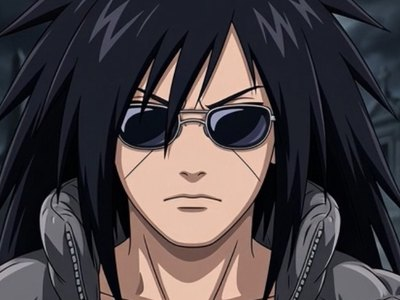
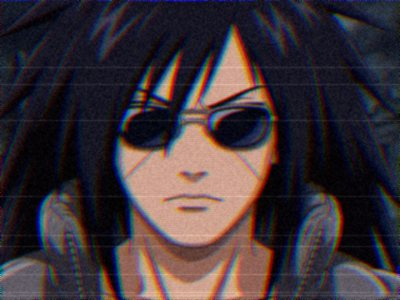
Give track pictures in Video Clips a 2006 VHS tape look
The track 01 picture gets tape softness, colour fringing, noise and
scanlines, and every track picture plays with a rolling tracking band,
a small tape jitter and camcorder PLAY / date text.

Claude-Session: https://claude.ai/code/session_013DhTx2UQ76mtjbnppG9YCE

diff --git a/quartier-crugaz/index.html b/quartier-crugaz/index.html
@@ -6,7 +6,7 @@
 <meta name="claude:viewport-fit-sides" content="cover">
 <link rel="preconnect" href="https://fonts.googleapis.com">
 <link rel="preconnect" href="https://fonts.gstatic.com" crossorigin>
-<link rel="stylesheet" href="https://fonts.googleapis.com/css2?family=Black+Ops+One&family=Press+Start+2P&family=Share+Tech+Mono&display=swap">
+<link rel="stylesheet" href="https://fonts.googleapis.com/css2?family=Black+Ops+One&family=Press+Start+2P&family=Share+Tech+Mono&family=VT323&display=swap">
 <style>
 /* Layout: a field base. A stencilled gate you ENTER, then a home with three sections: HOME, RADIO (track select on a field radio), VIDEO CLIPS (a scrolling row of field monitors). Black only. */
 :root {
@@ -166,6 +166,15 @@ td.w { color: var(--dim); letter-spacing: .12em; text-transform: uppercase; }
 .pop span { font: 400 16px var(--f-pixel); color: var(--gold); animation: s3kFlash 1s steps(1) infinite; }
 .pop small { font: 16px var(--f-mono); color: #c7b8ff; }
 @keyframes s3kPop { from { transform: scale(0); } }
+/* VHS 2006: tracking band rolling down, a little jitter, camcorder text */
+.screen.vhs img { animation: vhsJit 2.6s steps(1) infinite; filter: saturate(1.15) contrast(1.05); }
+.screen.vhs::after { content: ""; position: absolute; left: 0; right: 0; height: 14%; top: -20%; z-index: 1;
+  background: linear-gradient(transparent, rgba(255,255,255,.28) 40%, rgba(255,255,255,.08) 60%, transparent); mix-blend-mode: screen; animation: vhsTrack 3.2s linear infinite; }
+.vhs-play, .vhs-date { position: absolute; z-index: 2; font: 400 9px/1 "VT323", var(--f-mono); color: #fff; text-shadow: 1px 0 0 #ff2a6d, -1px 0 0 #2af0ff, 0 0 3px rgba(0,0,0,.8); letter-spacing: .06em; }
+.vhs-play { top: 6px; left: 7px; font-size: 13px; animation: s3kFlash 1.4s steps(1) infinite; }
+.vhs-date { bottom: 6px; right: 7px; font-size: 12px; }
+@keyframes vhsTrack { to { top: 110%; } }
+@keyframes vhsJit { 0%, 86%, 100% { transform: none; } 88% { transform: translateX(2px) skewX(-2deg); } 90% { transform: translateX(-3px); } 92% { transform: translateY(1px); } }
 @keyframes s3kFlash { 50% { opacity: 0; } }
 
 footer { font-size: 12px; letter-spacing: .3em; color: var(--dim); text-align: center; text-transform: uppercase; }
@@ -175,7 +184,7 @@ footer { font-size: 12px; letter-spacing: .3em; color: var(--dim); text-align: c
   .tiles { grid-template-columns: 1fr; }
   .cmd img { max-width: 220px; }
 }
-@media (prefers-reduced-motion: reduce) { .gate { transition: none; } .clips, .card.sel .tv, .led, .lcd .air.on, .pop span { animation: none; } }
+@media (prefers-reduced-motion: reduce) { .gate { transition: none; } .clips, .card.sel .tv, .led, .lcd .air.on, .pop span, .screen.vhs img, .screen.vhs::after, .vhs-play { animation: none; } }
 </style>
 
 <div class="gate" id="gate">
@@ -357,7 +366,11 @@ let sel = 1;
 items.forEach((it, i) => {
   const c = document.createElement("div");
   c.className = "card";
-  c.innerHTML = '<div class="tv"><div class="screen" style="--c1:' + (it.c || "#000") + '">' + (it.img ? '<img alt="" src="' + it.img + '">' : "<b>" + pad(it.no) + "</b>") + '</div></div><div class="plate"><strong></strong><em></em></div>';
+  const vhs = it.no && it.img; // track pictures play like a 2006 VHS tape
+  c.innerHTML = '<div class="tv"><div class="screen' + (vhs ? " vhs" : "") + '" style="--c1:' + (it.c || "#000") + '">' +
+    (it.img ? '<img alt="" src="' + it.img + '">' : "<b>" + pad(it.no) + "</b>") +
+    (vhs ? '<span class="vhs-play">PLAY ▶</span><span class="vhs-date">OCT.19 2006</span>' : "") +
+    '</div></div><div class="plate"><strong></strong><em></em></div>';
   c.querySelector("strong").textContent = it.t; c.querySelector("em").textContent = it.n;
   c.onclick = () => { if (i === sel) clipGo(); else { sel = i; renderClips(); beep(700, .05); } };
   row.append(c);
